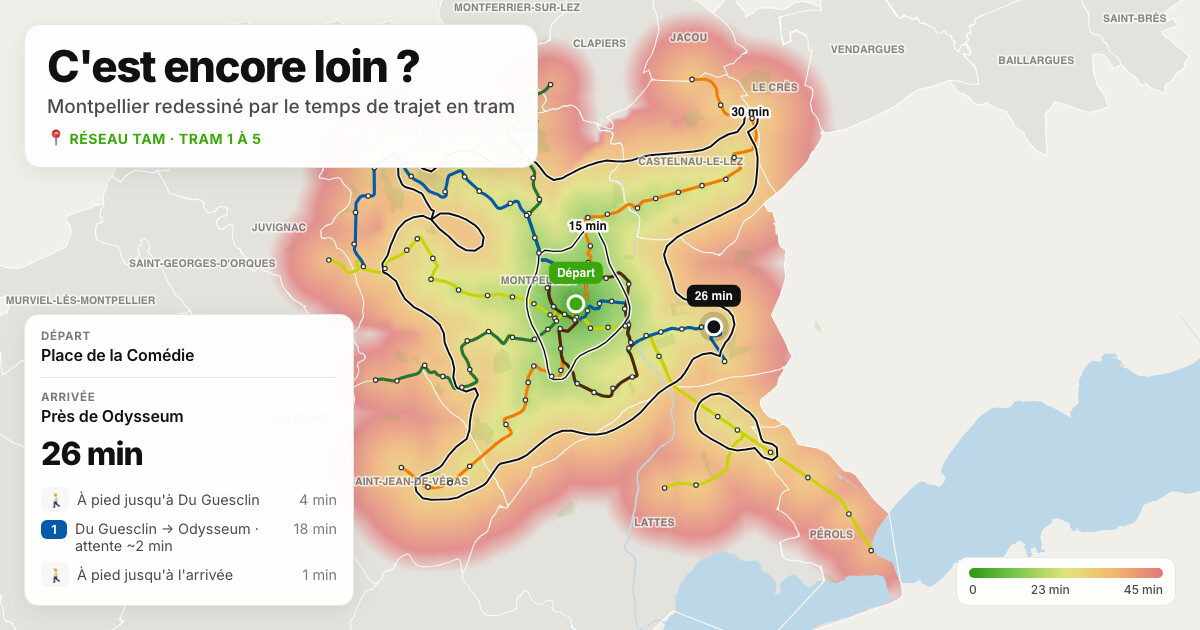
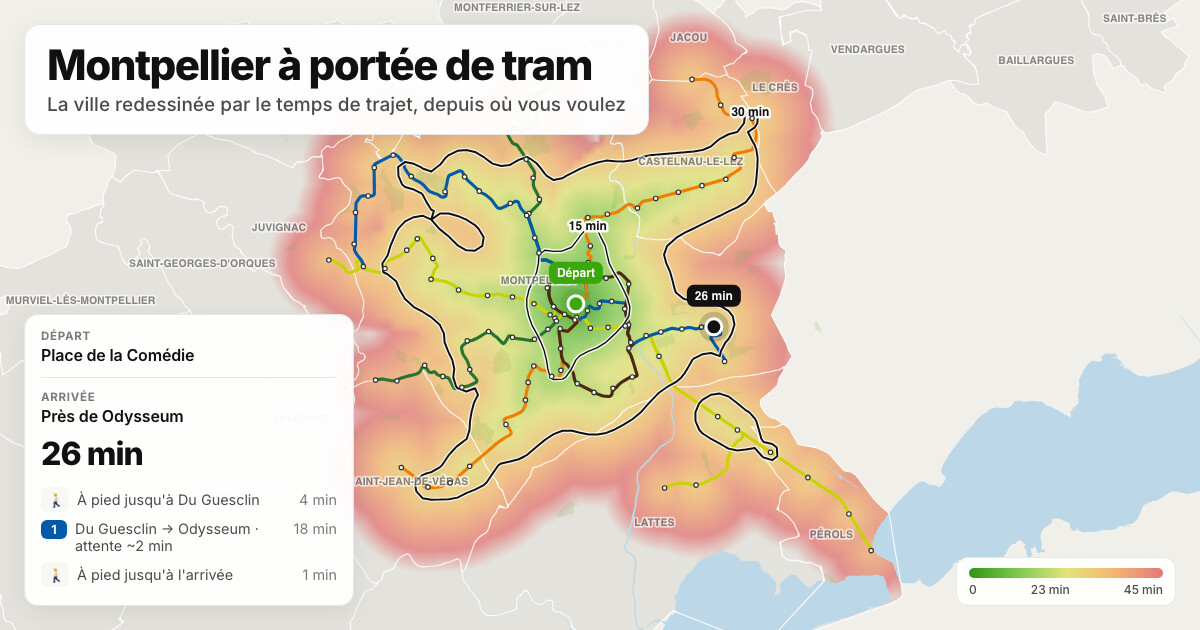
Nouveau titre : Montpellier à portée de tram

Changed region(s): [[0.0, 0.0302, 0.555, 0.2714]]

diff --git a/site/index.html b/site/index.html
@@ -3,7 +3,7 @@
   <head>
     <meta charset="utf-8" />
     <meta name="viewport" content="width=device-width, initial-scale=1" />
-    <title>C'est encore loin ? · Montpellier</title>
+    <title>Montpellier à portée de tram</title>
     <meta
       name="description"
       content="Carte interactive des temps de trajet en tram (et bus) à Montpellier : choisissez un départ, la carte se colore selon le temps qu'il faut pour aller partout ailleurs."
@@ -16,28 +16,28 @@
 
     <meta property="og:type" content="website" />
     <meta property="og:locale" content="fr_FR" />
-    <meta property="og:site_name" content="C'est encore loin ?" />
-    <meta property="og:title" content="C'est encore loin ? · Montpellier en tram" />
+    <meta property="og:site_name" content="Montpellier à portée de tram" />
+    <meta property="og:title" content="Montpellier à portée de tram" />
     <meta property="og:description" content="Montpellier redessiné par le temps de trajet en tram : choisissez un départ, la carte se colore selon le temps qu'il faut pour aller partout ailleurs." />
     <meta property="og:url" content="https://camilleroux.github.io/montpellier-temps-transport/" />
-    <meta property="og:image" content="https://camilleroux.github.io/montpellier-temps-transport/og-image.jpg" />
+    <meta property="og:image" content="https://camilleroux.github.io/montpellier-temps-transport/og-image.jpg?v=2" />
     <meta property="og:image:width" content="1200" />
     <meta property="og:image:height" content="630" />
     <meta property="og:image:alt" content="Carte de Montpellier colorée selon le temps de trajet en tram depuis la place de la Comédie, avec les isochrones 15 et 30 minutes." />
     <meta name="twitter:card" content="summary_large_image" />
-    <meta name="twitter:title" content="C'est encore loin ? · Montpellier en tram" />
+    <meta name="twitter:title" content="Montpellier à portée de tram" />
     <meta name="twitter:description" content="Montpellier redessiné par le temps de trajet en tram : choisissez un départ, la carte se colore selon le temps qu'il faut pour aller partout ailleurs." />
-    <meta name="twitter:image" content="https://camilleroux.github.io/montpellier-temps-transport/og-image.jpg" />
+    <meta name="twitter:image" content="https://camilleroux.github.io/montpellier-temps-transport/og-image.jpg?v=2" />
 
     <link rel="preconnect" href="https://fonts.bunny.net" />
     <link rel="stylesheet" href="https://fonts.bunny.net/css?family=inter:400,500,600,700,800" />
-    <link rel="stylesheet" href="./styles.css?v=4" />
+    <link rel="stylesheet" href="./styles.css?v=5" />
   </head>
   <body>
     <header class="topbar">
       <nav class="topbar-inner">
         <a class="brand" href="./">
-          C'est encore loin ?
+          Montpellier à portée de tram
         </a>
         <a class="topbar-link" href="https://www.camilleroux.com/" rel="noopener">camilleroux.com</a>
       </nav>
@@ -46,7 +46,7 @@
     <main class="page">
       <section class="hero">
         <span class="chip">📍 Montpellier, France</span>
-        <h1>C'est encore loin&nbsp;?</h1>
+        <h1>Montpellier à portée de&nbsp;tram</h1>
         <p class="lede">
           La ville redessinée par le temps qu'il faut pour y aller en tram. Choisissez un départ&nbsp;: la carte se colore
           selon le temps de trajet vers chaque point de la Métropole.
@@ -153,6 +153,6 @@
     </main>
 
     <div id="toast" class="toast" role="status" hidden></div>
-    <script type="module" src="./app.js?v=4"></script>
+    <script type="module" src="./app.js?v=5"></script>
   </body>
 </html>

diff --git a/site/app.js b/site/app.js
@@ -1,4 +1,4 @@
-// C'est encore loin ? — Montpellier
+// Montpellier à portée de tram
 // Carte des temps de trajet en tram (et bus) sur le réseau TaM.
 
 const DATA_URL = new URL("./data/commute_map_data.json?v=4", import.meta.url);

diff --git a/README.md b/README.md
@@ -1,4 +1,4 @@
-# Montpellier selon le temps qu'il faut pour y aller
+# Montpellier à portée de tram
 
 Carte interactive des temps de trajet en **tram** (et, en option, en **bus**) sur le réseau TaM de Montpellier.
 
